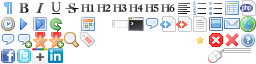
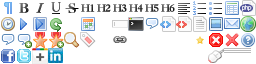
Adds content type youtube

Changed region(s): [[0.4375, 0.5625, 0.5, 0.6875]]

diff --git a/css/screen.css b/css/screen.css
@@ -1,7 +1,7 @@
 /**
  *
  * @copyright  2010-2013 izend.org
- * @version    48
+ * @version    49
  * @link       http://www.izend.org
  */
  
@@ -161,6 +161,9 @@ a.button {padding:6px 0 4px;margin:1px 0;display:inline-block;text-align:center;
 div.download {margin:1em 0;}
 
 div.longtail {margin:1em 0;overflow:hidden;}
+
+div.youtube > div {position:relative;overflow:hidden;}
+div.youtube iframe {position:absolute;top:0;left:0;width:100%;height:100%;}
 
 ol.tree, ol.tree ol {list-style-type:none;margin:0;padding:0;}
 ol.tree ol {margin-left:12px;background:url(../images/vline.png) repeat-y;}

diff --git a/css/theme.css b/css/theme.css
@@ -1,7 +1,7 @@
 /**
  *
  * @copyright  2010-2013 izend.org
- * @version    67
+ * @version    68
  * @link       http://www.izend.org
  */
 
@@ -150,6 +150,7 @@ span.btn_autostart {background-position:-16px -16px;}
 span.btn_playicon {background-position:-32px -16px;}
 span.btn_repeat {background-position:-48px -16px;}
 span.btn_time {background-position:-0 -16px;}
+span.btn_link {background-position:-112px -32px;}
 span.btn_comment {background-position:0 -32px;}
 span.btn_morecomment {background-position:-16px -32px;}
 span.btn_vote {background-position:-32px -32px;}

diff --git a/css/print.css b/css/print.css
@@ -87,7 +87,7 @@ div.vbar > *:last-child {margin-bottom:0;}
 #banner, #sidebar {display:none;}
 
 div.file {font-family:monospace;font-size:.9em;}
-div.download, div.longtail {display:none;}
+div.download, div.longtail, div.youtube {display:none;}
 
 ol.tree li.dirnode {font-style:italic;}
 ol.tree li.filenode {font-style:normal;}

diff --git a/css/media.css b/css/media.css
@@ -1,7 +1,7 @@
 /**
  *
  * @copyright  2013 izend.org
- * @version    10
+ * @version    11
  * @link       http://www.izend.org
  */
  

diff --git a/blocks/configure.php b/blocks/configure.php
@@ -3,7 +3,7 @@
 /**
  *
  * @copyright  2010-2013 izend.org
- * @version    33
+ * @version    34
  * @link       http://www.izend.org
  */
 
@@ -538,10 +538,27 @@ _SEP_;
 	}
 
 	$sql= <<<_SEP_
-CREATE TABLE IF NOT EXISTS `${db_prefix}newsletter_post` (
+CREATE TABLE `${db_prefix}content_youtube` (
+  `content_id` int(10) unsigned NOT NULL AUTO_INCREMENT,
+  `locale` enum('en','fr') NOT NULL DEFAULT '$default_language',
+  `id` varchar(20) CHARACTER SET ascii COLLATE ascii_bin DEFAULT NULL,
+  `width` int(4) unsigned NOT NULL DEFAULT '0',
+  `height` int(4) unsigned NOT NULL DEFAULT '0',
+  `autoplay` tinyint(1) NOT NULL DEFAULT '0',
+  `theme` enum('light','dark') NOT NULL DEFAULT 'dark',
+  `rel` tinyint(1) NOT NULL DEFAULT '0',
+  PRIMARY KEY (`content_id`,`locale`)
+) ENGINE=MyISAM  DEFAULT CHARSET=utf8;
+_SEP_;
+	if (!@mysql_query($sql, $db_conn)) {
+		return false;
+	}
+
+	$sql= <<<_SEP_
+CREATE TABLE `${db_prefix}newsletter_post` (
   `thread_id` int(10) unsigned NOT NULL,
   `node_id` int(10) unsigned NOT NULL,
-  `locale` enum('fr','en') NOT NULL DEFAULT 'fr',
+  `locale` enum('fr','en') NOT NULL DEFAULT '$default_language',
   `scheduled` datetime NOT NULL,
   `mailed` datetime DEFAULT NULL,
   PRIMARY KEY (`thread_id`,`node_id`,`locale`)
@@ -552,9 +569,9 @@ _SEP_;
 	}
 
 	$sql= <<<_SEP_
-CREATE TABLE IF NOT EXISTS `${db_prefix}newsletter_user` (
+CREATE TABLE `${db_prefix}newsletter_user` (
   `mail` varchar(100) NOT NULL,
-  `locale` enum('fr','en') NOT NULL DEFAULT 'fr',
+  `locale` enum('fr','en') NOT NULL DEFAULT '$default_language',
   `created` datetime NOT NULL,
   PRIMARY KEY (`mail`),
   KEY `locale` (`locale`)
@@ -604,7 +621,7 @@ _SEP_;
 CREATE TABLE `${db_prefix}node_content` (
   `node_id` int(10) unsigned NOT NULL,
   `content_id` int(10) unsigned NOT NULL,
-  `content_type` enum('text','file','download','infile','longtail') NOT NULL DEFAULT 'text',
+  `content_type` enum('text','file','download','infile','youtube','longtail') NOT NULL DEFAULT 'text',
   `number` int(3) unsigned NOT NULL,
   `ignored` tinyint(1) NOT NULL DEFAULT '0',
   PRIMARY KEY (`node_id`,`content_id`,`content_type`)

diff --git a/blocks/nodecontent.php b/blocks/nodecontent.php
@@ -2,8 +2,8 @@
 
 /**
  *
- * @copyright  2010-2012 izend.org
- * @version    4
+ * @copyright  2010-2013 izend.org
+ * @version    5
  * @link       http://www.izend.org
  */
 
@@ -57,6 +57,17 @@ function nodecontent($lang, $node_id) {
 							head('stylesheet', 'geshi'.'/'.$format, 'screen');
 							$contents[] = compact('type', 'file', 'start', 'end', 'format', 'lineno');
 						}
+					}
+					break;
+				case 'youtube':
+					$id=$c['content_youtube_id'];
+					$width=$c['content_youtube_width'];
+					$height=$c['content_youtube_height'];
+					$autoplay = $c['content_youtube_autoplay'];
+					$rel = $c['content_youtube_rel'];
+					$theme = $c['content_youtube_theme'];
+					if ($id and $width > 0 and $height > 0) {
+						$contents[] = compact('type', 'id', 'width', 'height', 'autoplay', 'theme', 'rel');
 					}
 					break;
 				case 'longtail':
